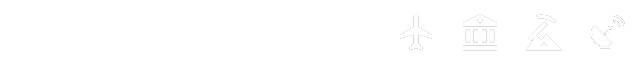
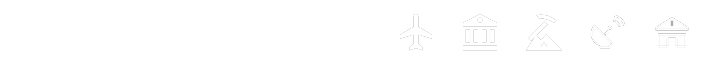
Mod: add barracks
Barracks are a land structure (200k, doubling, max 1M, hotkey Shift+Z).
Each finished barracks level adds 10% to troop growth, up to +100%.

Claude-Session: https://claude.ai/code/session_01DBcxZM1sPP7dEpN5eAhDoJ

diff --git a/packages/engine/src/execution/BarracksExecution.ts b/packages/engine/src/execution/BarracksExecution.ts
@@ -1,0 +1,63 @@
+// Mod: barracks. A barracks does its work through Config.troopIncreaseRate,
+// which counts its owner's finished barracks levels; this execution just
+// lives as long as the building, like every structure's.
+import { zRef } from "@openfront/engine-lib/snapshot/SnapshotType";
+import { z } from "zod";
+import { Execution, Game, Unit } from "../game/Game";
+import { execSnapshotType } from "../snapshot/ExecutionSnapshot";
+import type {
+  ExecRecord,
+  SnapshotReader,
+  SnapshotWriter,
+} from "../snapshot/SnapshotContext";
+
+export class BarracksExecution implements Execution {
+  private active = true;
+  private mg: Game;
+
+  constructor(private barracks: Unit) {}
+
+  init(mg: Game, ticks: number): void {
+    this.mg = mg;
+  }
+
+  tick(ticks: number): void {
+    if (!this.barracks.isActive()) this.active = false;
+  }
+
+  isActive(): boolean {
+    return this.active;
+  }
+
+  activeDuringSpawnPhase(): boolean {
+    return false;
+  }
+
+  snapshot(w: SnapshotWriter): ExecRecord {
+    return BarracksExecutionSnapshot.write({
+      active: this.active,
+      initialized: this.mg !== undefined,
+      barracks: w.unit(this.barracks),
+    });
+  }
+
+  restoreSnapshot(s: BarracksState, r: SnapshotReader): void {
+    this.active = s.active;
+    if (s.initialized) this.mg = r.game;
+    this.barracks = r.unit(s.barracks);
+  }
+}
+
+const BarracksStateSchema = z.object({
+  active: z.boolean(),
+  initialized: z.boolean(),
+  barracks: zRef(),
+});
+type BarracksState = z.infer<typeof BarracksStateSchema>;
+
+export const BarracksExecutionSnapshot = execSnapshotType({
+  name: "Barracks",
+  version: 1,
+  schema: BarracksStateSchema,
+  cls: () => BarracksExecution,
+});

diff --git a/tests/Barracks.test.ts b/tests/Barracks.test.ts
@@ -1,0 +1,45 @@
+import {
+  PlayerInfo,
+  PlayerType,
+  UnitType,
+} from "@openfront/engine-api/game/GameTypes";
+import { Game, Player } from "@openfront/engine/game/Game";
+import { setup } from "./util/Setup";
+import { executeTicks } from "./util/utils";
+
+let game: Game;
+let player: Player;
+let enemy: Player;
+
+describe("Barracks (mod)", () => {
+  beforeEach(async () => {
+    game = await setup(
+      "half_land_half_ocean",
+      { infiniteGold: true, instantBuild: true },
+      [
+        new PlayerInfo("player", PlayerType.Human, null, "player_id"),
+        new PlayerInfo("enemy", PlayerType.Human, null, "enemy_id"),
+      ],
+    );
+    player = game.player("player_id");
+    enemy = game.player("enemy_id");
+    player.conquer(game.ref(2, 2));
+    enemy.conquer(game.ref(5, 15));
+    executeTicks(game, 2);
+  });
+
+  test("is built on your own land only", () => {
+    expect(player.canBuild(UnitType.Barracks, game.ref(2, 2))).not.toBe(false);
+    expect(player.canBuild(UnitType.Barracks, game.ref(5, 15))).toBe(false);
+  });
+
+  test("raises troop growth, capped at +100%", () => {
+    const before = game.config().troopIncreaseRate(player);
+    const barracks = player.buildUnit(UnitType.Barracks, game.ref(2, 2), {});
+    const withOne = game.config().troopIncreaseRate(player);
+    expect(withOne).toBeGreaterThan(before);
+    expect(withOne).toBeCloseTo(before * 1.1, 5);
+    for (let i = 0; i < 15; i++) barracks.increaseLevel();
+    expect(game.config().troopIncreaseRate(player)).toBeCloseTo(before * 2, 5);
+  });
+});

diff --git a/src/client/hud/layers/UnitDisplay.ts b/src/client/hud/layers/UnitDisplay.ts
@@ -29,6 +29,7 @@ import {
   airportIcon,
   atomBombIcon,
   bankIcon,
+  barracksIcon,
   bomberIcon,
   carrierIcon,
   cityIcon,
@@ -81,6 +82,7 @@ export class UnitDisplay extends LitElement implements Controller {
   private _spyPlanes = 0;
   private _paratroopers = 0;
   private _submarines = 0;
+  private _barracks = 0;
   private _missileSilo = 0;
   private _port = 0;
   private _defensePost = 0;
@@ -632,6 +634,7 @@ export class UnitDisplay extends LitElement implements Controller {
     this._spyPlanes = player.units(UnitType.SpyPlane).length;
     this._paratroopers = player.units(UnitType.Paratroopers).length;
     this._submarines = player.units(UnitType.Submarine).length;
+    this._barracks = player.totalUnitLevels(UnitType.Barracks);
     this._warships = player.totalUnitLevels(UnitType.Warship);
     this.requestUpdate();
   }
@@ -815,6 +818,13 @@ export class UnitDisplay extends LitElement implements Controller {
               UnitType.Submarine,
               "submarine",
               this.getHotkey("buildSubmarine", "Shift+Digit0"),
+            )}
+            ${this.renderUnitItem(
+              barracksIcon,
+              this._barracks,
+              UnitType.Barracks,
+              "barracks",
+              this.getHotkey("buildBarracks", "Shift+KeyZ"),
             )}
           </div>
         </div>

diff --git a/packages/engine/src/execution/ConstructionExecution.ts b/packages/engine/src/execution/ConstructionExecution.ts
@@ -15,6 +15,7 @@ import type {
   SnapshotWriter,
 } from "../snapshot/SnapshotContext";
 import { AirportExecution } from "./AirportExecution";
+import { BarracksExecution } from "./BarracksExecution";
 import { BomberExecution } from "./BomberExecution";
 import { CarrierExecution } from "./CarrierExecution";
 import { CityExecution } from "./CityExecution";
@@ -59,6 +60,8 @@ export function structureExecution(structure: Unit): Execution {
       return new PassiveIncomeExecution(structure);
     case UnitType.Radar:
       return new RadarExecution(structure);
+    case UnitType.Barracks:
+      return new BarracksExecution(structure);
     default:
       throw new Error(`${structure.type()} is not a structure`);
   }
@@ -212,6 +215,7 @@ export class ConstructionExecution implements Execution {
       case UnitType.Bank:
       case UnitType.GoldMine:
       case UnitType.Radar:
+      case UnitType.Barracks:
         this.mg.addExecution(structureExecution(this.structure!));
         break;
       default:
@@ -234,6 +238,7 @@ export class ConstructionExecution implements Execution {
       case UnitType.Bank:
       case UnitType.GoldMine:
       case UnitType.Radar:
+      case UnitType.Barracks:
         return true;
       default:
         return false;

diff --git a/packages/engine-lib/src/configuration/Config.ts b/packages/engine-lib/src/configuration/Config.ts
@@ -252,6 +252,7 @@ export class Config {
       case UnitType.Bank:
       case UnitType.GoldMine:
       case UnitType.Radar:
+      case UnitType.Barracks:
         info = {
           constructionDuration: this.instantBuild() ? 0 : 5 * 10,
           upgradable: true,
@@ -421,6 +422,14 @@ export class Config {
     }
   }
 
+  /**
+   * Mod: percent extra troop growth from this many barracks levels
+   * (10% each, at most 100%).
+   */
+  barracksGrowthBonus(levels: number): number {
+    return Math.min(100, levels * 10);
+  }
+
   troopIncreaseRate(player: PlayerLike): number {
     const max = this.maxTroops(player);
 
@@ -431,6 +440,15 @@ export class Config {
 
     if (player.type() === PlayerType.Bot) {
       toAdd *= 0.5;
+    }
+
+    // Mod: each finished barracks level speeds up troop growth.
+    const barracksLevels = player
+      .units(UnitType.Barracks)
+      .filter((u) => !u.isUnderConstruction())
+      .reduce((sum, u) => sum + u.level(), 0);
+    if (barracksLevels > 0) {
+      toAdd *= 1 + this.barracksGrowthBonus(barracksLevels) / 100;
     }
 
     if (player.type() === PlayerType.Nation) {

diff --git a/packages/engine/src/snapshot/ExecutionRegistry.ts b/packages/engine/src/snapshot/ExecutionRegistry.ts
@@ -5,6 +5,7 @@ import { AllianceRejectExecutionSnapshot } from "../execution/alliance/AllianceR
 import { AllianceRequestExecutionSnapshot } from "../execution/alliance/AllianceRequestExecution";
 import { BreakAllianceExecutionSnapshot } from "../execution/alliance/BreakAllianceExecution";
 import { AttackExecutionSnapshot } from "../execution/AttackExecution";
+import { BarracksExecutionSnapshot } from "../execution/BarracksExecution";
 import { BoatRetreatExecutionSnapshot } from "../execution/BoatRetreatExecution";
 import { BomberExecutionSnapshot } from "../execution/BomberExecution";
 import { CargoPlaneExecutionSnapshot } from "../execution/CargoPlaneExecution";
@@ -87,6 +88,7 @@ export const EXECUTION_SNAPSHOT_TYPES = [
   SpyPlaneExecutionSnapshot,
   ParatrooperExecutionSnapshot,
   SubmarineExecutionSnapshot,
+  BarracksExecutionSnapshot,
   FighterExecutionSnapshot,
   BomberExecutionSnapshot,
   CarrierExecutionSnapshot,

diff --git a/src/client/hud/layers/BuildMenu.ts b/src/client/hud/layers/BuildMenu.ts
@@ -35,6 +35,7 @@ const paratroopersIcon = assetUrl("images/ParatroopersIconWhite.svg");
 const submarineIcon = assetUrl("images/SubmarineIconWhite.svg");
 const bankIcon = assetUrl("images/BankIconWhite.svg");
 const radarIcon = assetUrl("images/RadarIconWhite.svg");
+const barracksIcon = assetUrl("images/BarracksIconWhite.svg");
 const goldMineIcon = assetUrl("images/GoldMineIconWhite.svg");
 const warshipIcon = assetUrl("images/BattleshipIconWhite.svg");
 const cityIcon = assetUrl("images/CityIconWhite.svg");
@@ -196,6 +197,13 @@ const buildTable: BuildItemDisplay[][] = [
       icon: radarIcon,
       description: "build_menu.desc.radar",
       key: "unit_type.radar",
+      countable: true,
+    },
+    {
+      unitType: UnitType.Barracks,
+      icon: barracksIcon,
+      description: "build_menu.desc.barracks",
+      key: "unit_type.barracks",
       countable: true,
     },
   ],

diff --git a/src/client/render/gl/passes/PointLightPass.ts b/src/client/render/gl/passes/PointLightPass.ts
@@ -12,6 +12,7 @@ import {
   UT_ATOM_BOMB,
   UT_BANK,
   UT_RADAR,
+  UT_BARRACKS,
   UT_SPY_PLANE,
   UT_PARATROOPERS,
   UT_SUBMARINE,
@@ -60,6 +61,7 @@ const LIGHT_CONFIGS: Record<string, LightConfig> = {
   [UT_AIRPORT]: { r: 0.7, g: 0.85, b: 1.0, radius: 18, intensity: 1.2 },
   [UT_BANK]: { r: 1.0, g: 0.9, b: 0.5, radius: 18, intensity: 1.2 },
   [UT_RADAR]: { r: 0.5, g: 1.0, b: 0.6, radius: 18, intensity: 1.2 },
+  [UT_BARRACKS]: { r: 1.0, g: 0.75, b: 0.5, radius: 18, intensity: 1.2 },
   [UT_GOLD_MINE]: { r: 1.0, g: 0.8, b: 0.3, radius: 18, intensity: 1.2 },
   [UT_DEFENSE_POST]: { r: 0.8, g: 0.85, b: 1.0, radius: 18, intensity: 1.2 },
   [UT_SAM_LAUNCHER]: { r: 0.8, g: 0.85, b: 1.0, radius: 18, intensity: 1.2 },

diff --git a/src/client/UserSettingModal.ts b/src/client/UserSettingModal.ts
@@ -1611,6 +1611,16 @@ export class UserSettingModal extends BaseModal {
       ></setting-keybind>
 
       <setting-keybind
+        action="buildBarracks"
+        label=${translateText("user_setting.build_barracks")}
+        description=${translateText("user_setting.build_hotkey_desc")}
+        defaultKey=${this.defaultKeybinds.buildBarracks}
+        .value=${this.getKeyValue("buildBarracks")}
+        .display=${this.getKeyChar("buildBarracks")}
+        @change=${this.handleKeybindChange}
+      ></setting-keybind>
+
+      <setting-keybind
         action="buildScrollModifier"
         .allowModifiers=${true}
         label=${translateText("user_setting.build_scroll_modifier")}

diff --git a/src/client/render/types/UnitType.ts b/src/client/render/types/UnitType.ts
@@ -42,6 +42,7 @@ export const UT_AIRPORT = "Airport" as const;
 export const UT_BANK = "Bank" as const;
 export const UT_GOLD_MINE = "Gold Mine" as const;
 export const UT_RADAR = "Radar Station" as const;
+export const UT_BARRACKS = "Barracks" as const;
 
 // ---------------------------------------------------------------------------
 // Derived sets
@@ -58,6 +59,7 @@ export const STRUCTURE_TYPES: ReadonlySet<string> = new Set([
   UT_BANK,
   UT_GOLD_MINE,
   UT_RADAR,
+  UT_BARRACKS,
 ]);
 
 export const NUKE_TYPES: ReadonlySet<string> = new Set([
@@ -136,4 +138,5 @@ export const ALL_UNIT_TYPES = [
   UT_SPY_PLANE,
   UT_PARATROOPERS,
   UT_SUBMARINE,
+  UT_BARRACKS,
 ] as const;

diff --git a/src/client/InputHandler.ts b/src/client/InputHandler.ts
@@ -669,6 +669,7 @@ export class InputHandler {
       "buildSpyPlane",
       "buildParatroopers",
       "buildSubmarine",
+      "buildBarracks",
     ];
     buildKeybinds = buildKeybinds.map((i: string): string => {
       return this.keybinds[i];
@@ -1935,6 +1936,7 @@ export class InputHandler {
       { key: "buildSpyPlane", type: UnitType.SpyPlane },
       { key: "buildParatroopers", type: UnitType.Paratroopers },
       { key: "buildSubmarine", type: UnitType.Submarine },
+      { key: "buildBarracks", type: UnitType.Barracks },
     ];
     for (const { key, type } of buildKeybinds) {
       if (this.keybindMatchesEvent({ code, shiftKey }, this.keybinds[key]))

diff --git a/src/client/hud/HotbarIcons.ts b/src/client/hud/HotbarIcons.ts
@@ -7,6 +7,7 @@ export const bomberIcon = assetUrl("images/BomberIconWhite.svg");
 export const bankIcon = assetUrl("images/BankIconWhite.svg");
 export const goldMineIcon = assetUrl("images/GoldMineIconWhite.svg");
 export const radarIcon = assetUrl("images/RadarIconWhite.svg");
+export const barracksIcon = assetUrl("images/BarracksIconWhite.svg");
 export const spyPlaneIcon = assetUrl("images/SpyPlaneIconWhite.svg");
 export const paratroopersIcon = assetUrl("images/ParatroopersIconWhite.svg");
 export const submarineIcon = assetUrl("images/SubmarineIconWhite.svg");
